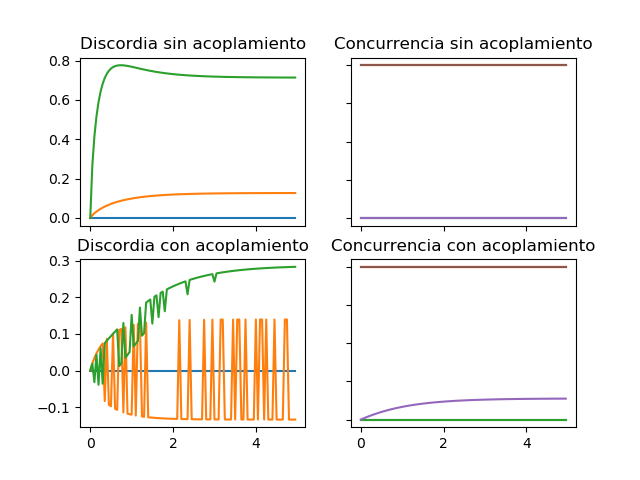
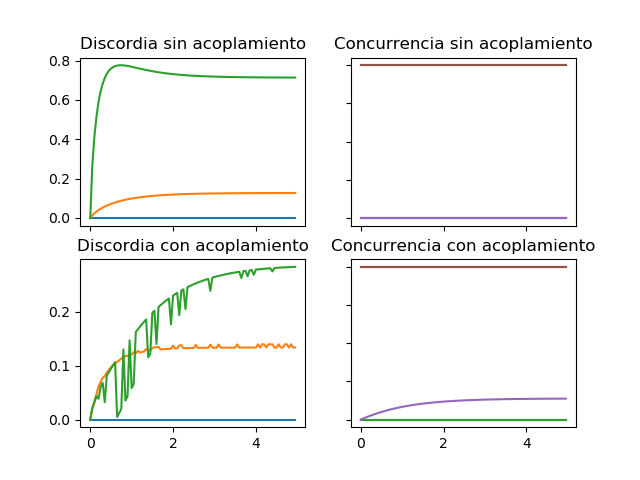
Cambio generado con script

diff --git a/master.py b/master.py
@@ -57,7 +57,7 @@ def me3(IN,RES):
     for i in range (0,100):
         mat=Qobj(sol.states[i])
         conc[i]=concurrence(mat),4
-        disc[i]=-entropy_vn(mat)+entropy_vn(mat.ptrace(0))+entropy_opt(mat)
+        disc[i]=np.abs(-entropy_vn(mat)+entropy_vn(mat.ptrace(0))+entropy_opt(mat))
     out=[conc,disc]
     return out
 
